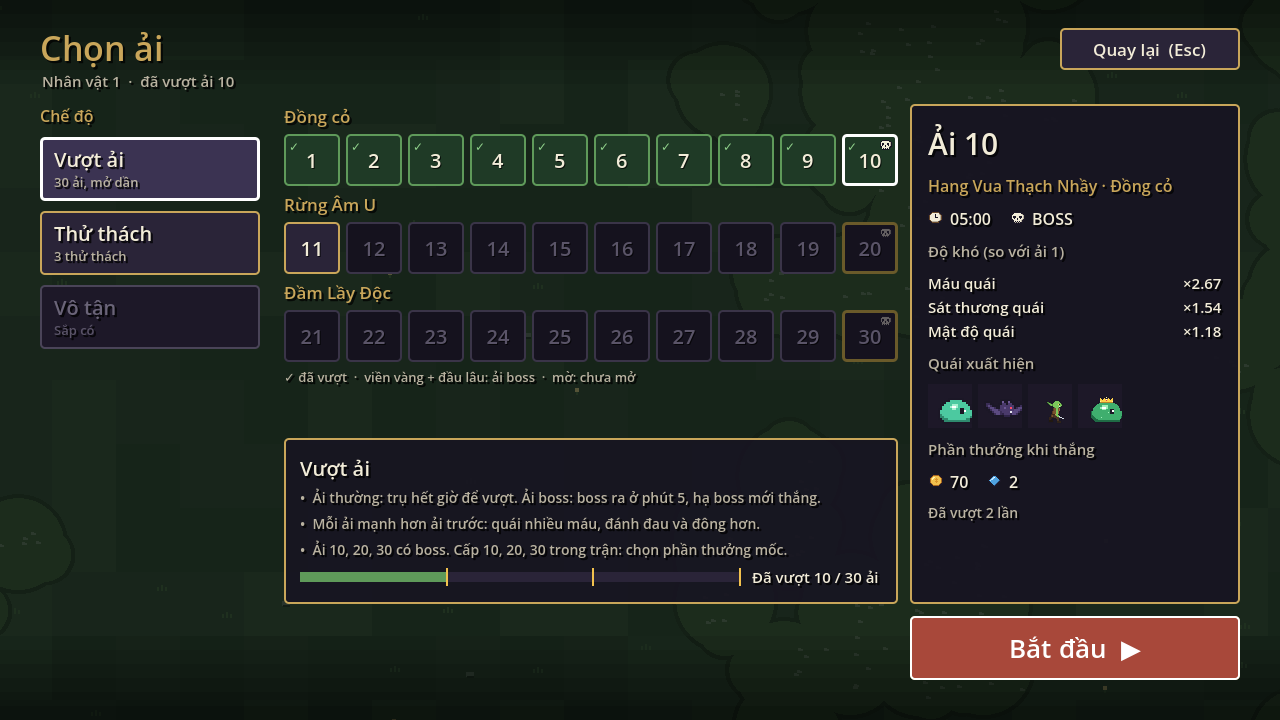
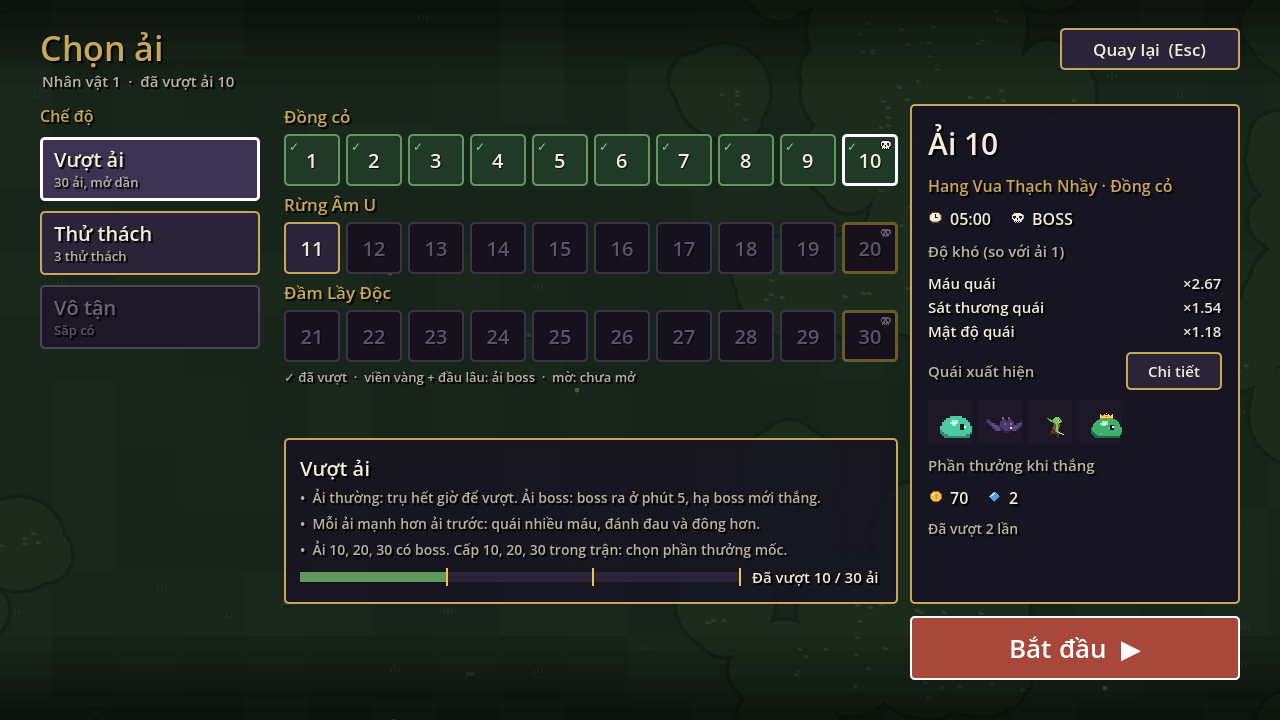
feat(ui): stage detail overlay with monsters, time marks and rewards
A "Chi tiet" button next to the stage's monster row opens an overlay: every
monster of the stage with hp / damage scaled by the stage, speed, elite and
boss marks; a sorted timeline of first appearances, elite bursts, the boss
and the region's events (from events.min_stage); and the rewards. Esc or
"Dong" closes it. References (Archero, Halls of Torment, Vampire Survivors)
in the spec.

Verified: gamekit test: 425 passed, 0 failed; ui-shots 01f-stage-select, 01f2-stage-detail viewed
Design: design/ux/stage-detail.md (roadmap D2)

Changed region(s): [[0.7188, 0.55, 0.875, 0.7639], [0.875, 0.4889, 0.9375, 0.55], [0.7188, 0.4889, 0.8125, 0.5194]]

diff --git a/design/ux/stage-detail.md b/design/ux/stage-detail.md
@@ -1,0 +1,33 @@
+# Bảng chi tiết ải (roadmap D2)
+
+Nút **Chi tiết** ở khung thông tin ải (màn chọn ải) mở một bảng phủ lên màn hình. Bảng cho biết trước khi vào trận:
+mọi quái của ải, boss, các mốc thời gian (tinh anh, boss, sự kiện) và phần thưởng.
+
+## Tham khảo
+
+- **Archero** (wiki chương [Land of Doom](https://archero.fandom.com/wiki/Land_of_Doom)): mỗi chương ghi số
+  loại quái, danh sách boss và boss xuất hiện ở ải nào (5, 10, 15, 20). Lấy: tách riêng boss, ghi **mốc** boss.
+- **Halls of Torment** ([tổng hợp các Hall](https://primagames.com/tips/how-many-levels-are-in-halls-of-torment-answered)):
+  mỗi Hall có quái riêng, biến thể và boss theo thời gian. Lấy: liệt kê theo **thời điểm** xuất hiện, kèm biến thể
+  (ở đây là tinh anh).
+- **Vampire Survivors** (chọn màn): khung bên phải chỉ ghi tóm tắt, chi tiết nằm sau một lần bấm. Lấy: khung
+  chính giữ gọn, bảng chi tiết mở bằng nút.
+
+Học: tóm tắt ở khung chính, chi tiết sau một nút. Tránh: nhồi mọi số vào khung chính (đã tràn, D1).
+Quyết định: bảng phủ hai cột, cột trái là quái, cột phải là mốc thời gian và phần thưởng; Esc hoặc nút Đóng.
+
+## Nội dung
+
+- **Quái**: ô hình, tên, máu, sát thương (đã nhân hệ số của ải), tốc độ; dấu "Tinh anh" nếu ải có bản tinh anh
+  của con đó; boss ghi "BOSS".
+- **Mốc thời gian** (theo giây, tăng dần):
+  - quái mới bắt đầu xuất hiện;
+  - đợt tinh anh;
+  - boss;
+  - sự kiện của vùng (từ ải `events.min_stage`).
+- **Phần thưởng**: vàng, đá lần đầu, đá các lần sau.
+
+## Kiểm tra
+
+- Test `stage_detail_test.gd`: mốc thời gian sắp tăng dần, có boss ở ải boss, có sự kiện vùng từ ải min_stage.
+- Ảnh `production/ui/02b-stage-detail.png`.

diff --git a/production/roadmap.md b/production/roadmap.md
@@ -281,7 +281,7 @@ Trước mỗi nhóm: tham khảo ≥ 2 game cùng thể loại, ghi nguồn và
 
 **D. Thông tin ải linh động, có nút mở rộng**
 - D1. ✅ 2026-11-22 Ô "Quái xuất hiện" không tràn: tối đa 5 ô, nhiều hơn thì 4 con + "+k" (tip ghi tên các con còn lại).
-- D2. Nút "Chi tiết" mở bảng: mọi quái của ải (tên, chỉ số, tinh anh), boss, sự kiện của vùng và các mốc thời gian
+- D2. ✅ 2026-11-22 Nút "Chi tiết" mở bảng: mọi quái của ải (tên, chỉ số, tinh anh), boss, sự kiện của vùng và các mốc thời gian
   (sóng, sự kiện, boss phút 5), phần thưởng. Spec `design/ux/stage-detail.md` + ảnh.
 
 **E. Chủng loài quái (đặc tính nội tại theo loài)**
